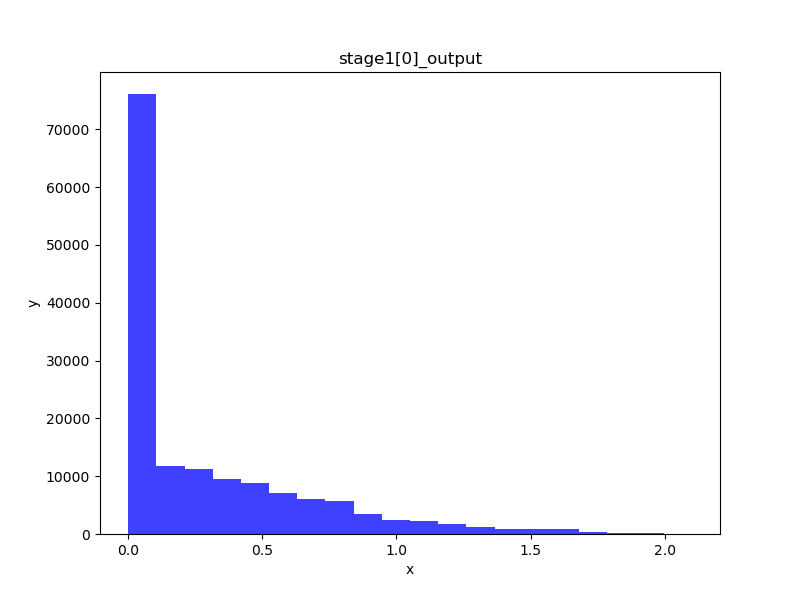
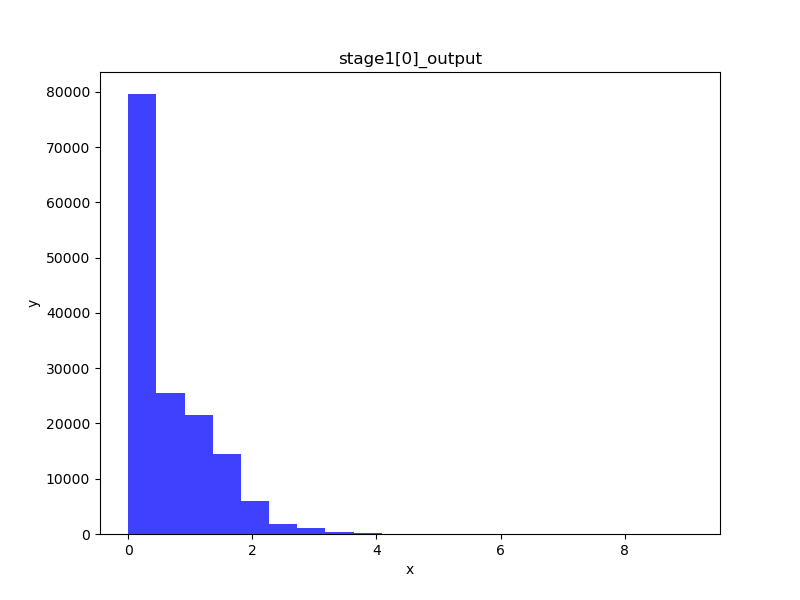
0729

diff --git a/functions.py b/functions.py
@@ -1,0 +1,145 @@
+import torch
+import torch.nn as nn
+from repvgg import *
+import numpy
+import torchvision.transforms as transforms
+import cv2
+from PIL import Image
+import matplotlib.pyplot as plt
+
+def output_observer(layer, input, input_lowerbound, input_upperbound):
+    # Quantize weights and bias
+    weights = layer.rbr_reparam.state_dict()['weight']
+    bias = layer.rbr_reparam.state_dict().get('bias', None)
+    
+    quantized_weights, s_weight = quantize_tensor_signed(weights)
+    quantized_bias, s_bias = None, None
+    if bias is not None:
+        quantized_bias, s_bias = quantize_tensor_signed(bias)
+    quantized_input, s_input = quantize_tensor_signed(input, input_lowerbound, input_upperbound)
+
+    reconstructed_weights = quantized_weights * s_weight
+    if quantized_bias is not None:
+        reconstructed_bias = quantized_bias * s_bias
+    else:
+        reconstructed_bias = None
+    output = nn.ReLU()(layer.rbr_reparam(input))
+    
+    quantized_layer = nn.Conv2d(layer.rbr_reparam.in_channels, layer.rbr_reparam.out_channels, layer.rbr_reparam.kernel_size, 
+                                stride=layer.rbr_reparam.stride, padding=layer.rbr_reparam.padding, bias=(reconstructed_bias is not None))
+    quantized_layer.weight.data = quantized_weights
+    if reconstructed_bias is not None:
+        quantized_layer.bias.data = quantized_bias
+    
+    output_quantized = nn.ReLU()(s_input * s_weight * quantized_layer(quantized_input))
+    error_calc(output, output_quantized)
+    #print(f"s_input:{s_input}, s_weight:{s_weight}, 2^-5:{2**(-5)}")
+    analysis_tensor(output, "unq")
+    analysis_tensor(output_quantized, "q")
+    return output, output_quantized
+'''
+def quantize_tensor(tensor, lower_bound, upper_bound):
+    scaling_factor = (upper_bound - lower_bound) / 255
+    quantized_tensor = torch.clamp(tensor, lower_bound, upper_bound)
+    quantized_tensor = 255*(tensor - lower_bound) / (upper_bound - lower_bound)
+    quantized_tensor = torch.round(quantized_tensor - 128)
+    print("Method 1:")
+    print(quantized_tensor)
+    return quantized_tensor, scaling_factor
+'''
+def quantize_tensor_signed(tensor):
+    scaling_factor = 1/32.
+    quantized_tensor = tensor * 32
+    quantized_tensor = torch.clamp(quantized_tensor, -128, 127)
+    quantized_tensor = torch.floor(quantized_tensor)
+    return quantized_tensor, scaling_factor
+
+def quantize_tensor_unsigned(tensor): #[0, 16] -> [0, 255]
+    scaling_factor = 1/16.
+    quantized_tensor = tensor * 16
+    quantized_tensor = torch.clamp(quantized_tensor, 0, 255)
+    quantized_tensor = torch.floor(quantized_tensor)
+    return quantized_tensor, scaling_factor
+
+def error_calc(tensor1, tensor2):
+    mse_error = torch.mean((tensor1 - tensor2) ** 2)
+    abs_error = torch.mean(torch.abs(tensor1 - tensor2))
+    print(f"Quantization MSE: {mse_error.item()}")
+    print(f"Quantization Absolute Error: {abs_error.item()}")
+    analysis_tensor(tensor1, "before_quantize")
+    analysis_tensor(tensor2, "after_quantize")
+    #print(f"s_input:{s_input}, s_weight:{s_weight}, 2^-5:{2**(-5)}")
+
+def analysis_tensor(tensor, filename):
+    data = tensor.cpu().detach().numpy()
+    print(f"Max:{np.max(data)}, Min: {np.min(data)}")
+    plt.figure(figsize=(8, 6))
+    plt.hist(data.flatten(), bins=20, alpha=0.75, color='b')
+    plt.xlabel('x')
+    plt.ylabel('y')
+    plt.title(filename)
+    plt.savefig("./plots/" + filename)
+    plt.show()
+    plt.close()
+
+def quantize_1st_layer(layer, input):
+    weights = layer.rbr_reparam.state_dict()['weight']
+    bias = layer.rbr_reparam.state_dict().get('bias', None)
+    
+    quantized_weights, s_weight = quantize_tensor_signed(weights)
+    quantized_bias, s_bias = None, None
+    if bias is not None:
+        quantized_bias, s_bias = quantize_tensor_signed(bias)
+    quantized_input, s_input = quantize_tensor_signed(input)
+
+    reconstructed_weights = quantized_weights * s_weight
+    if quantized_bias is not None:
+        reconstructed_bias = quantized_bias * s_bias
+    else:
+        reconstructed_bias = None
+    output = nn.ReLU()(layer.rbr_reparam(input))
+    
+    quantized_layer = nn.Conv2d(layer.rbr_reparam.in_channels, layer.rbr_reparam.out_channels, layer.rbr_reparam.kernel_size, 
+                                stride=layer.rbr_reparam.stride, padding=layer.rbr_reparam.padding, bias=(reconstructed_bias is not None))
+    quantized_layer.weight.data = quantized_weights
+    if reconstructed_bias is not None:
+        quantized_layer.bias.data = quantized_bias
+    
+    output_quantized = nn.ReLU()(s_input * s_weight * quantized_layer(quantized_input))
+    error_calc(output, output_quantized)
+    #print(f"s_input:{s_input}, s_weight:{s_weight}, 2^-5:{2**(-5)}")
+    analysis_tensor(output, "unq")
+    analysis_tensor(output_quantized, "q")
+    return output, output_quantized
+
+def quantize_layer(layer, input):
+    weights = layer.rbr_reparam.state_dict()['weight']
+    bias = layer.rbr_reparam.state_dict().get('bias', None)
+    
+    quantized_weights, s_weight = quantize_tensor_signed(weights)
+    quantized_bias, s_bias = None, None
+    if bias is not None:
+        quantized_bias, s_bias = quantize_tensor_signed(bias)
+    quantized_input, s_input = quantize_tensor_unsigned(input)
+
+    reconstructed_weights = quantized_weights * s_weight
+    if quantized_bias is not None:
+        reconstructed_bias = quantized_bias * s_bias
+    else:
+        reconstructed_bias = None
+    output = nn.ReLU()(layer.rbr_reparam(input))
+    
+    quantized_layer = nn.Conv2d(layer.rbr_reparam.in_channels, layer.rbr_reparam.out_channels, layer.rbr_reparam.kernel_size, 
+                                stride=layer.rbr_reparam.stride, padding=layer.rbr_reparam.padding, bias=(reconstructed_bias is not None))
+    quantized_layer.weight.data = quantized_weights
+    if reconstructed_bias is not None:
+        quantized_layer.bias.data = quantized_bias
+    
+    output_quantized = nn.ReLU()(s_input * s_weight * quantized_layer(quantized_input))
+    error_calc(output, output_quantized)
+    #print(f"s_input:{s_input}, s_weight:{s_weight}, 2^-5:{2**(-5)}")
+    analysis_tensor(output, "unq")
+    analysis_tensor(output_quantized, "q")
+    return output, output_quantized
+
+

diff --git a/quantization.py b/quantization.py
@@ -6,6 +6,7 @@ import torchvision.transforms as transforms
 import cv2
 from PIL import Image
 import matplotlib.pyplot as plt
+from functions import *
 TOP = 3
 BOTTOM = -4
 device = torch.device("cuda" if torch.cuda.is_available() else "cpu")
@@ -15,37 +16,23 @@ transform = transforms.Compose([
     transforms.ToTensor(),
     transforms.Normalize(mean=[0.5071, 0.4867, 0.4408], std=[0.2675, 0.2565, 0.2761])
 ])
-
-def output_observer(layer, input):
-    output = layer(input)
-    print(output)
-
-def analysis_tensor(tensor, filename):
-    data = tensor.cpu().detach().numpy()
-    print(f"Max:{np.max(data)}, Min: {np.min(data)}")
-    plt.figure(figsize=(8, 6))
-    plt.hist(data.flatten(), bins=20, alpha=0.75, color='b')
-    plt.xlabel('x')
-    plt.ylabel('y')
-    plt.title(filename)
-    plt.savefig("./plots/" + filename)
-    plt.show()
-    plt.close()
-
-
 def main():
     model = create_QARepVGGBlockV2_A0(deploy= False).to(device)
+    checkpoint = torch.load('QARepVGGV2-A0testtest/best_checkpoint.pth')
+    if 'model' in checkpoint:
+        model.load_state_dict(checkpoint['model'])
+    else:
+        model.load_state_dict(checkpoint)
+    model.eval()
     switch(model)
     image = cv2.imread("./pattern/image/001.png")
-    image = cv2.cvtColor(image, cv2.COLOR_BGR2RGB)
-    
-    image = Image.fromarray(image)
-    
-    image = transform(image)
-    
+    image = cv2.cvtColor(image, cv2.COLOR_BGR2RGB)   
+    image = Image.fromarray(image)   
+    image = transform(image)   
     image = image.unsqueeze(0).to(device)
     analysis_tensor(image, "normalized_input")
     model.eval()
+    '''
     with torch.no_grad():
         output = model.stage0(image)
         analysis_tensor(output, "stage0_output")
@@ -91,7 +78,60 @@ def main():
         analysis_tensor(output, "stage3[13]_output")
         output = model.stage4[0](output)
         analysis_tensor(output, "stage4[0]_output")
+        output = model.gap(output)
+        analysis_tensor(output, "average pooling")
+        output = output.flatten()
+        output = model.linear(output)
+        analysis_tensor(output, "linear")
         
+    '''
+
+    # =========Test the input quantization error=============
+    #      input quantization error:0.0003388968762010336
+    #========================================================
+    #quantized_input, s = quantize_tensor_signed(image)
+    #error = torch.sum(torch.mean((image - quantized_input * s)**2))
+    #print(f"input quantization error:{error}")
+
+
+    # =========Test the first layer quantization error=============
+    #      Quantization MSE: 0.3397901952266693
+    #      Quantization Absolute Error: 0.39588701725006104
+    #==============================================================
+    print("========== Stage 0 ==========")
+    output, output_quantized = quantize_1st_layer(model.stage0, image)
+    print("=============================")
+    # =========Test the quantization error after ReLU =============
+    #      MSE After ReLU: 0.001088797813281417 (use original input)
+    #      MSE After ReLU: 0.3483304977416992  (use quantized input)
+    #==============================================================
+    #q2, s2 = quantize_tensor_unsigned(output_quantized)
+    #error = torch.sum(torch.mean((output - q2 * s2)**2))
+    #print(f"Quantization Error After ReLU: {error}")
+    
+    #Stage 1
+    print("========== Stage 1 ==========")
+    _, output_quantized = quantize_layer(model.stage1[0], output_quantized)
+    output = model.stage1[0](output)
+    #_, output_quantized = quantize_layer(model.stage1[1], output_quantized)
+    #output = model.stage1[1](output)
+    print("=============================")
+    '''
+    #Stage 2
+    _, output_quantized = quantize_1st_layer(model.stage2[0], output_quantized)
+    output = model.stage2[0](output)
+    _, output_quantized = quantize_1st_layer(model.stage2[1], output_quantized)
+    output = model.stage2[1](output)
+    _, output_quantized = quantize_1st_layer(model.stage2[2], output_quantized)
+    output = model.stage2[2](output)
+    _, output_quantized = quantize_1st_layer(model.stage2[3], output_quantized)
+    output = model.stage2[3](output)
+    error_calc(output, output_quantized)
+    '''
+
+
+
+    
 
 if __name__ == "__main__":
     main()
